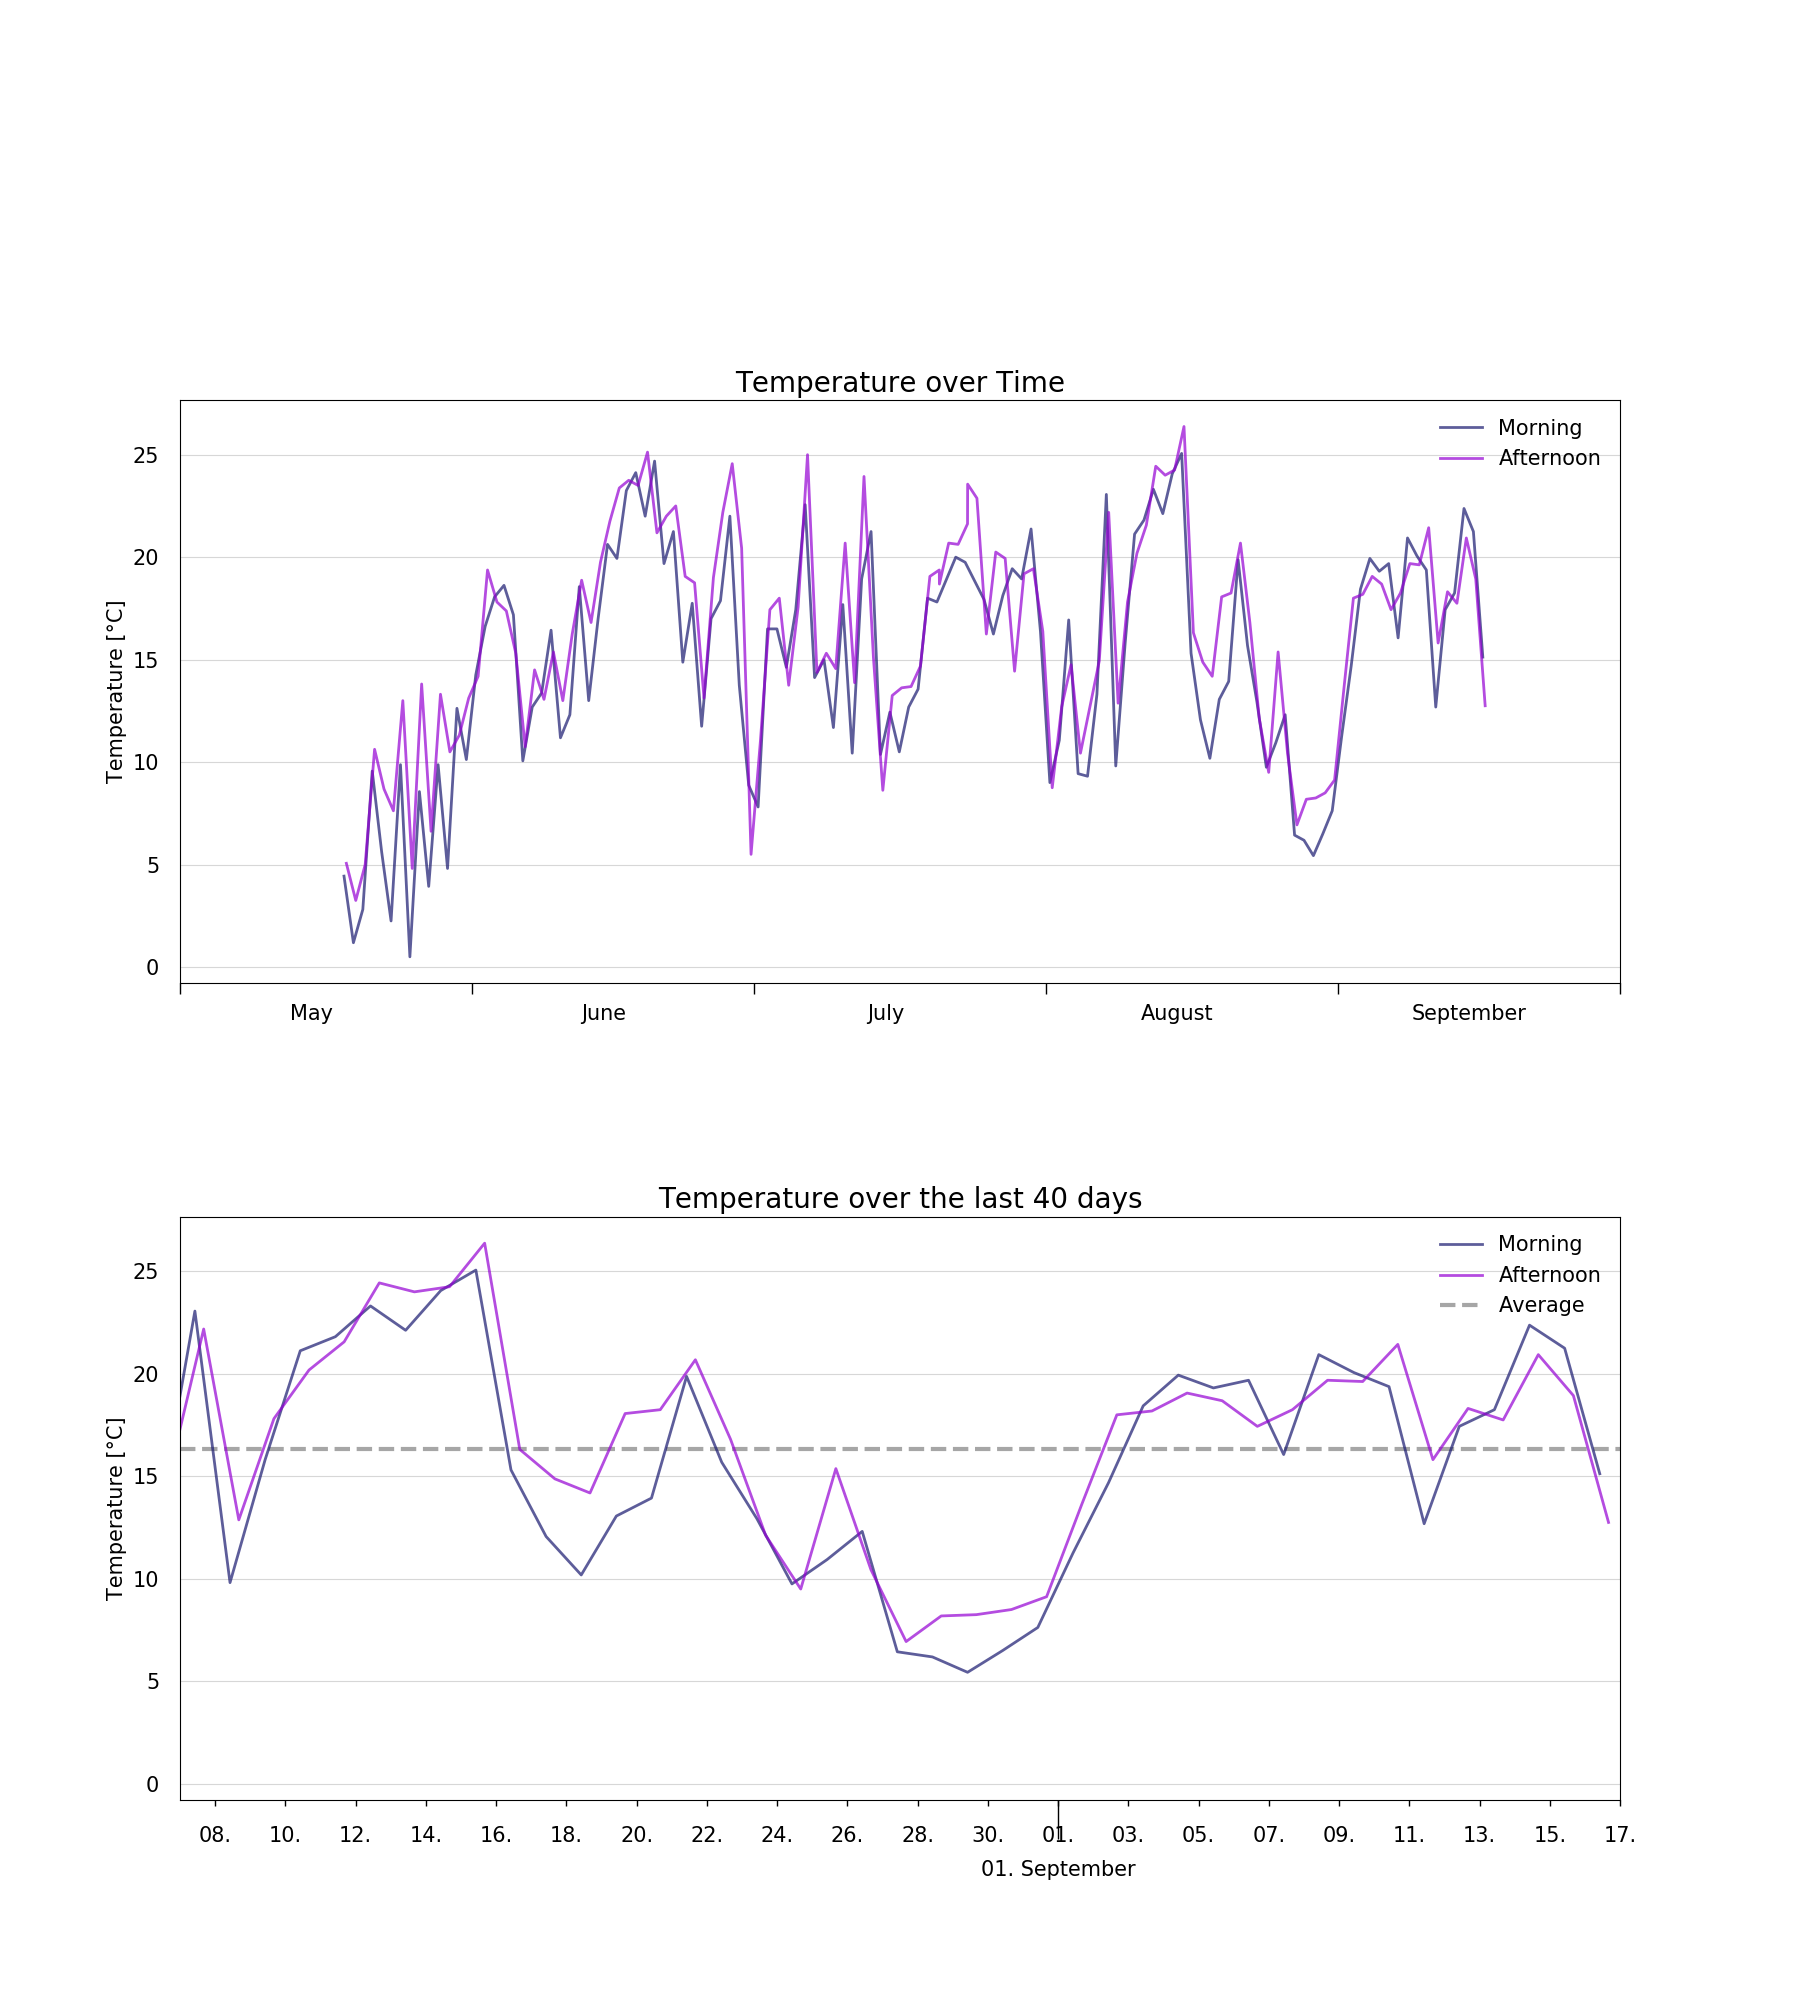
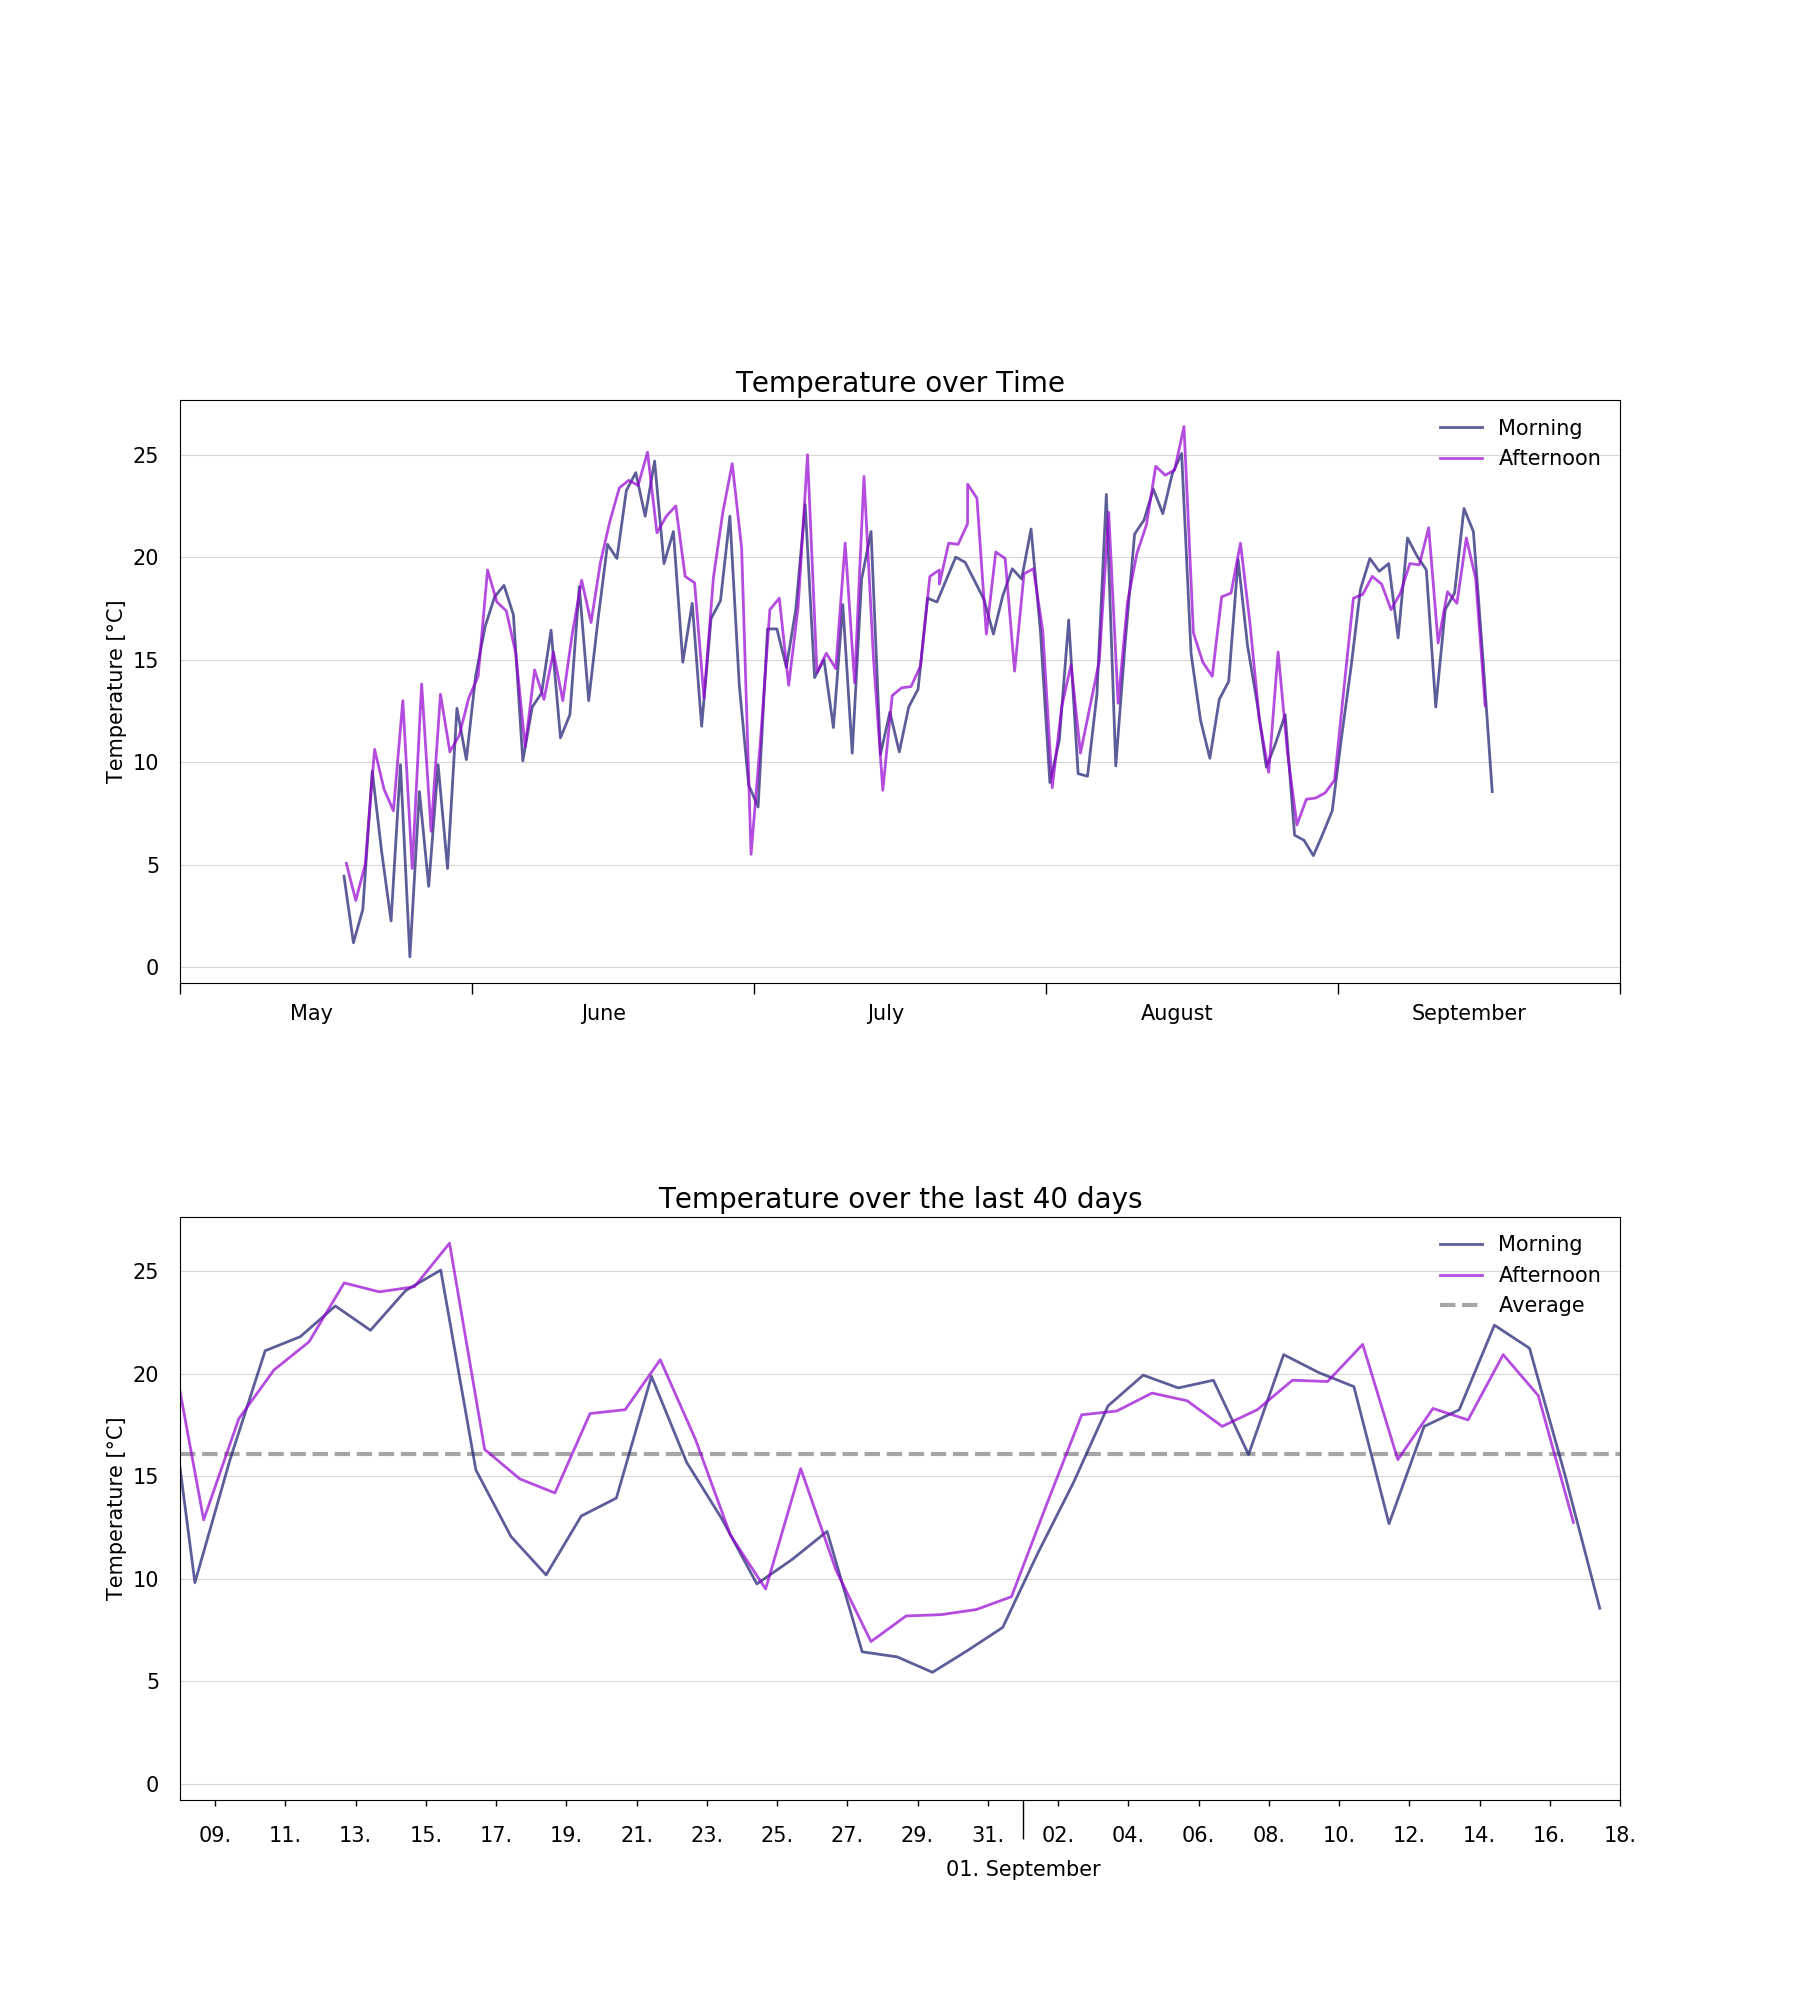
I'm a bot beep boop

diff --git a/resources/huette.md b/resources/huette.md
@@ -6,13 +6,13 @@ image: '/assets/img/'
 description: 'Live image from the Austrian alps'
 twitter_text: ' '
 ---
-## Latest image from 16 September 2021 at 16:10
+## Latest image from 17 September 2021 at 10:10
 <div class="huette">
   <div class="huette-image">
     <img src="{{ "/assets/img/huette.jpg" | prepend: site.baseurl }}">
   </div>
   <div class="huette-text">
-        <h2>Current Temperature: 12.75°C</h2>
+        <h2>Current Temperature: 8.562°C</h2>
         <p>A solar powered raspberry pi left alone in the wild is sending daily images and temperature data to this website. It should give you an impression about the current weather in the "Brixental".</p>
 
   </div>

diff --git a/rpi-script/huette.md b/rpi-script/huette.md
@@ -6,13 +6,13 @@ image: '/assets/img/'
 description: 'Live image from the Austrian alps'
 twitter_text: ' '
 ---
-## Latest image from 16 September 2021 at 16:10
+## Latest image from 17 September 2021 at 10:10
 <div class="huette">
   <div class="huette-image">
     <img src="{{ "/assets/img/huette.jpg" | prepend: site.baseurl }}">
   </div>
   <div class="huette-text">
-        <h2>Current Temperature: 12.75°C</h2>
+        <h2>Current Temperature: 8.562°C</h2>
         <p>A solar powered raspberry pi left alone in the wild is sending daily images and temperature data to this website. It should give you an impression about the current weather in the "Brixental".</p>
 
   </div>
